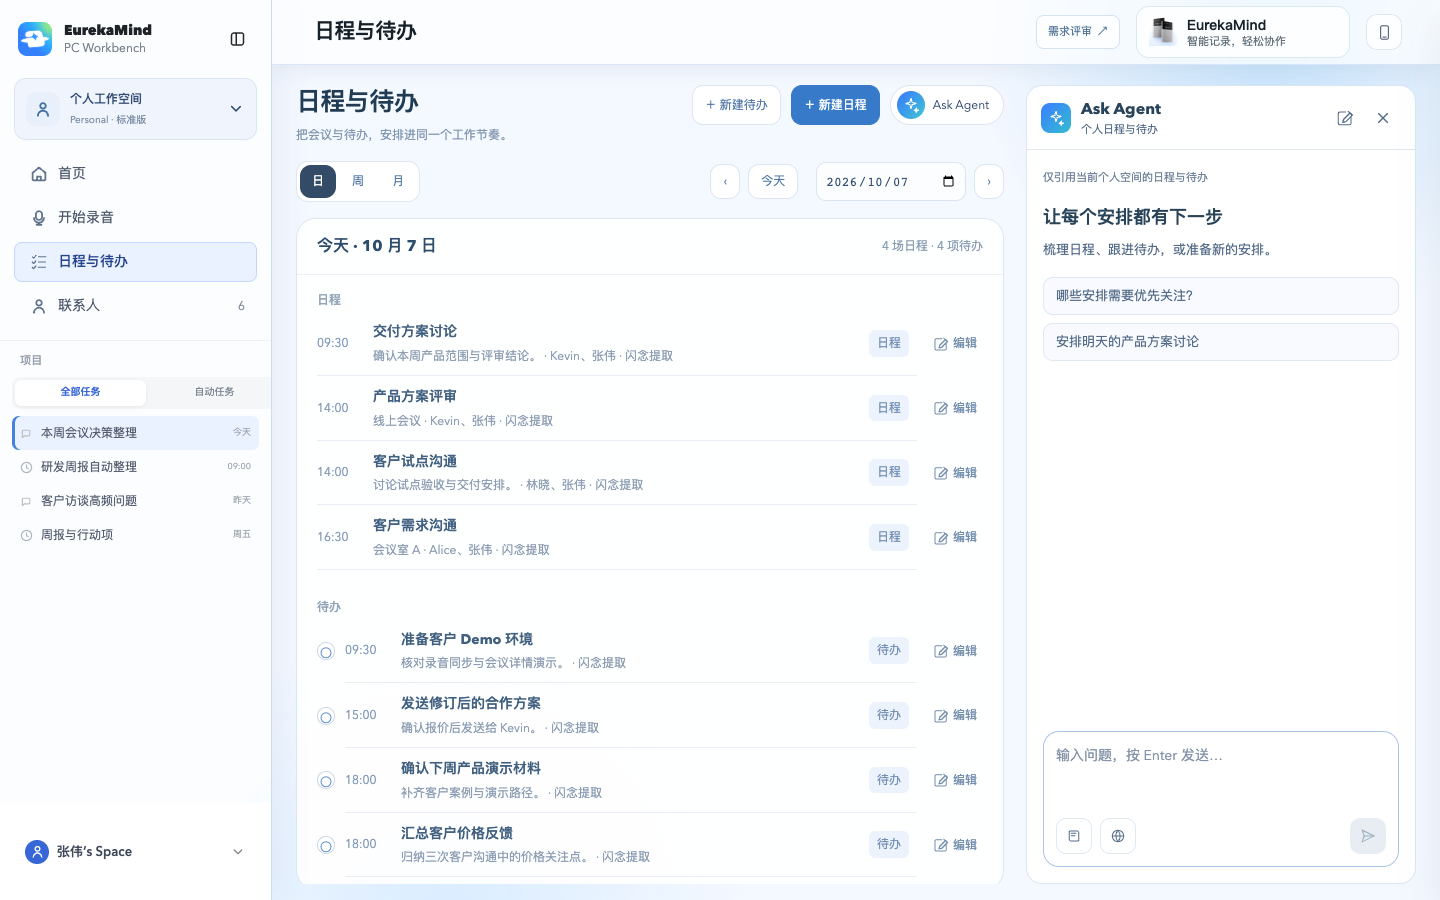
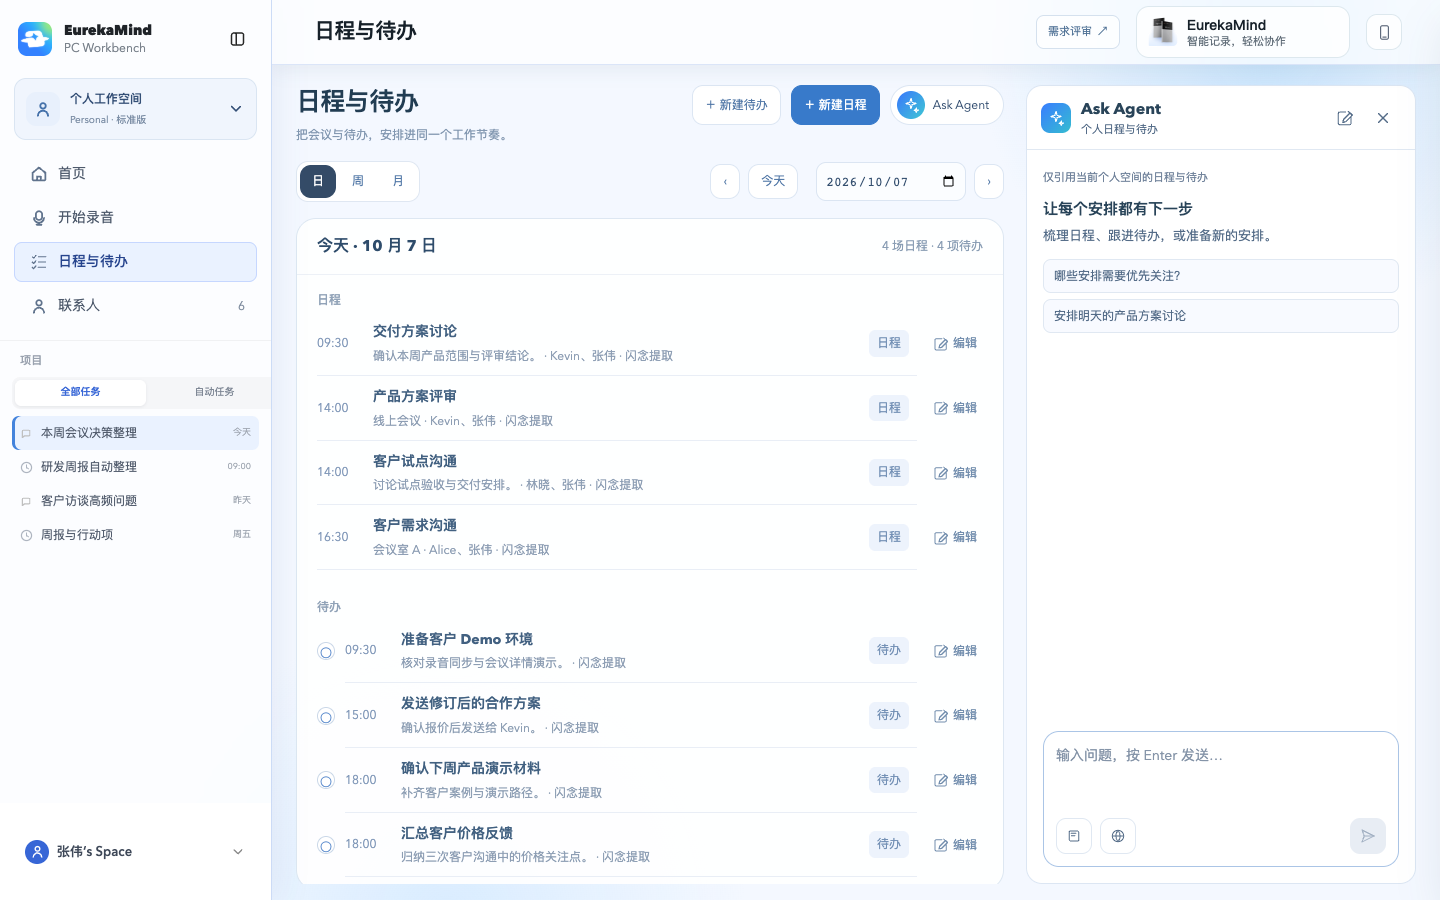
Unify compact Agent content typography

Changed region(s): [[0.7188, 0.2178, 0.875, 0.4044]]

diff --git a/src/prototype/one-to-one-reference/assets/agent-panel.css b/src/prototype/one-to-one-reference/assets/agent-panel.css
@@ -12,12 +12,12 @@
 :is(#xiaozhi-rail,#contacts-xiaozhi-rail,#knowledge-xiaozhi-panel) .xiaozhi-body{padding:16px;gap:16px;min-height:0;overflow:hidden;}
 :is(#pa-agent,.ws-agent) :is(.pa-agent-body,.ws-agent-scroll){padding:16px;min-height:0;overflow-y:auto;}
 :is(#xiaozhi-rail,#pa-agent,#contacts-xiaozhi-rail,.ws-agent,#knowledge-xiaozhi-panel) :is(.xiaozhi-intro,.pa-agent-welcome){padding:0;}
-:is(#xiaozhi-rail,#pa-agent,#contacts-xiaozhi-rail,.ws-agent,#knowledge-xiaozhi-panel) :is(.xiaozhi-intro,.pa-agent-welcome,.ws-agent-scroll) h3{margin:16px 0 8px;font-size:18px;line-height:27px;color:var(--agent-ink);}
-:is(#xiaozhi-rail,#pa-agent,#contacts-xiaozhi-rail,.ws-agent,#knowledge-xiaozhi-panel) :is(.xiaozhi-intro,.pa-agent-welcome) >p{margin:0;font-size:13px;line-height:22px;color:var(--agent-copy);}
-:is(#xiaozhi-rail,#pa-agent,#contacts-xiaozhi-rail,.ws-agent,#knowledge-xiaozhi-panel) :is(.xiaozhi-state,.pa-agent-context,.ws-eyebrow){font-size:11px;line-height:18px;color:var(--agent-meta);}
+:is(#xiaozhi-rail,#pa-agent,#contacts-xiaozhi-rail,.ws-agent,#knowledge-xiaozhi-panel) :is(.xiaozhi-intro,.pa-agent-welcome,.ws-agent-scroll,.agent-session-head) h3{margin:10px 0 6px;font-size:15px;line-height:22px;font-weight:600;color:var(--agent-ink);}
+:is(#xiaozhi-rail,#pa-agent,#contacts-xiaozhi-rail,.ws-agent,#knowledge-xiaozhi-panel) :is(.xiaozhi-intro,.pa-agent-welcome,.ws-agent-scroll,.ws-agent-insight-context) >p{margin:0;font-size:13px;line-height:21px;color:var(--agent-copy);}
+:is(#xiaozhi-rail,#pa-agent,#contacts-xiaozhi-rail,.ws-agent,#knowledge-xiaozhi-panel) :is(.xiaozhi-state,.pa-agent-context,.ws-eyebrow){font-size:11px;line-height:17px;color:var(--agent-meta);}
 :is(#xiaozhi-rail,#contacts-xiaozhi-rail,#knowledge-xiaozhi-panel) .xiaozhi-state i{display:none;}
-:is(#xiaozhi-rail,#pa-agent,#contacts-xiaozhi-rail,.ws-agent,#knowledge-xiaozhi-panel) :is(.xiaozhi-suggestions,.pa-agent-prompts,.ws-agent-prompts){display:grid;grid-template-columns:1fr;gap:8px;margin:16px 0;}
-:is(#xiaozhi-rail,#pa-agent,#contacts-xiaozhi-rail,.ws-agent,#knowledge-xiaozhi-panel) :is(.xiaozhi-suggestions,.pa-agent-prompts,.ws-agent-prompts)>button{display:flex;align-items:center;min-height:36px;padding:8px 12px;border:1px solid var(--agent-line);border-radius:10px;background:#f8faff;color:var(--agent-copy);font-size:13px;line-height:20px;text-align:left;font-weight:400;white-space:normal;}
+:is(#xiaozhi-rail,#pa-agent,#contacts-xiaozhi-rail,.ws-agent,#knowledge-xiaozhi-panel) :is(.xiaozhi-suggestions,.pa-agent-prompts,.ws-agent-prompts){display:grid;grid-template-columns:1fr;gap:6px;margin:12px 0;}
+:is(#xiaozhi-rail,#pa-agent,#contacts-xiaozhi-rail,.ws-agent,#knowledge-xiaozhi-panel) :is(.xiaozhi-suggestions,.pa-agent-prompts,.ws-agent-prompts)>button{display:flex;align-items:center;min-height:34px;padding:7px 10px;border:1px solid var(--agent-line);border-radius:8px;background:#f8faff;color:var(--agent-copy);font-size:12px;line-height:18px;text-align:left;font-weight:400;white-space:normal;}
 #pa-agent .pa-agent-prompts svg{display:none;}
 :is(#xiaozhi-rail,#pa-agent,#contacts-xiaozhi-rail,.ws-agent,#knowledge-xiaozhi-panel) :is(.xiaozhi-composer,.ws-composer,#pa-agent-prompt){box-sizing:border-box;min-height:0;padding:12px;border:1px solid var(--agent-line);border-radius:16px;background:#fff;box-shadow:0 2px 8px #243b6205;flex-shrink:0;}
 :is(#xiaozhi-rail,#contacts-xiaozhi-rail,#knowledge-xiaozhi-panel) .xiaozhi-composer{margin:0;}
@@ -38,9 +38,9 @@
 #contacts-xiaozhi-rail .xiaozhi-context{margin:0;display:flex;gap:6px;flex-wrap:wrap;min-width:0;flex:1;}
 #contacts-xiaozhi-rail .xiaozhi-context>span:first-child{display:none;}
 #contacts-xiaozhi-rail .xiaozhi-context .selected{display:flex;align-items:center;gap:6px;padding:7px 10px;background:#edf4ff;border-radius:10px;font-size:12px;line-height:22px;overflow-wrap:anywhere;}
-#contacts-xiaozhi-rail .contacts-xiaozhi-answer{min-height:0;padding:0;margin:16px 0 8px;background:transparent;color:var(--agent-ink);font-size:14px;line-height:1.8;}
-:is(#xiaozhi-rail,#pa-agent,#contacts-xiaozhi-rail,.ws-agent) :is(.agent-history-message p,.pa-message,.pa-agent-answer,.pa-agent-answer p,.ws-chat-user,.ws-chat-answer){font-size:14px;line-height:1.8;overflow-wrap:anywhere;}
-:is(#xiaozhi-rail,#pa-agent,#contacts-xiaozhi-rail,.ws-agent) :is(.agent-history-message.user,.pa-message,.ws-chat-user){padding:12px;border-radius:12px;background:#eff5ff;color:var(--agent-copy);}
+#contacts-xiaozhi-rail .contacts-xiaozhi-answer{min-height:0;padding:0;margin:12px 0 6px;background:transparent;color:var(--agent-ink);font-size:13px;line-height:22px;}
+:is(#xiaozhi-rail,#pa-agent,#contacts-xiaozhi-rail,.ws-agent) :is(.agent-history-message p,.pa-message,.pa-agent-answer,.pa-agent-answer p,.ws-chat-user,.ws-chat-answer){font-size:13px;line-height:22px;overflow-wrap:anywhere;}
+:is(#xiaozhi-rail,#pa-agent,#contacts-xiaozhi-rail,.ws-agent) :is(.agent-history-message.user,.pa-message,.ws-chat-user){padding:10px 12px;border-radius:10px;background:#eff5ff;color:var(--agent-copy);}
 #agent-history-messages{scroll-padding:12px 0;}
 #xiaozhi-rail.history-mode{height:calc(100dvh - var(--agent-top,77px) - 16px)!important;}
 @media(max-height:700px){
@@ -69,3 +69,21 @@
 /* Keep the composer focused on input and actions; scope stays available to its accessibility description. */
 :is(#xiaozhi-rail,#pa-agent,#contacts-xiaozhi-rail,.ws-agent,#knowledge-xiaozhi-panel) :is(.agent-context-hint,#pa-agent-scope,#ws-composer-hint,.agent-composer-caption,.pa-composer-caption,.ws-composer-caption,.xiaozhi-composer-foot>span){display:none;}
 :is(#xiaozhi-rail,#pa-agent,#contacts-xiaozhi-rail,.ws-agent,#knowledge-xiaozhi-panel) :is(.agent-composer-toolbar,.pa-composer-tools,.ws-composer-tools,.xiaozhi-composer-foot){margin-bottom:0;}
+
+/* Content hierarchy: section titles 15/22, prose 13/22, actions 12/18, metadata 11/17. */
+:is(#xiaozhi-rail,#pa-agent,#contacts-xiaozhi-rail,.ws-agent,#knowledge-xiaozhi-panel) :is(.xiaozhi-intro,.pa-agent-body,.ws-agent-scroll,.contacts-xiaozhi-messages){font-size:13px;line-height:22px;color:var(--agent-copy);}
+:is(#xiaozhi-rail,#pa-agent,#contacts-xiaozhi-rail,.ws-agent,#knowledge-xiaozhi-panel) :is(.agent-session-head>span,.agent-session-head small,.agent-session-head>p,.agent-history-message>span,.contacts-xiaozhi-note,.ws-agent-history-context>p,.ws-agent-insight-context>span,.ws-agent-usage,.md-agent-context>small,.widget-agent-result>span,.widget-agent-result small){font-size:11px;line-height:17px;font-weight:400;color:var(--agent-meta);}
+:is(#xiaozhi-rail,#pa-agent,#contacts-xiaozhi-rail,.ws-agent,#knowledge-xiaozhi-panel) :is(.agent-history-message,.pa-message,.pa-agent-answer,.ws-chat-user,.ws-chat-answer){margin:0 0 12px;}
+:is(#xiaozhi-rail,#pa-agent,#contacts-xiaozhi-rail,.ws-agent,#knowledge-xiaozhi-panel) :is(.pa-agent-answer p,.agent-history-message p){margin:4px 0 0;font-size:13px;line-height:22px;}
+:is(#xiaozhi-rail,#pa-agent,#contacts-xiaozhi-rail,.ws-agent,#knowledge-xiaozhi-panel) :is(.pa-agent-answer,.widget-agent-result) :is(ul,ol){margin:8px 0;padding-left:20px;}
+:is(#xiaozhi-rail,#pa-agent,#contacts-xiaozhi-rail,.ws-agent,#knowledge-xiaozhi-panel) :is(.pa-agent-answer,.widget-agent-result) li{margin:4px 0;font-size:13px;line-height:22px;}
+:is(#xiaozhi-rail,#pa-agent,#contacts-xiaozhi-rail,.ws-agent,#knowledge-xiaozhi-panel) :is(.pa-agent-answer h4,.widget-agent-result h4,.md-agent-context>strong){display:block;margin:8px 0 6px;font-size:14px;line-height:21px;font-weight:600;color:var(--agent-ink);}
+#xiaozhi-rail .md-agent-context{padding:0 0 12px;margin:0;}
+#xiaozhi-rail .md-agent-context p{margin:0;font-size:13px;line-height:21px;color:var(--agent-copy);}
+#xiaozhi-rail .widget-agent-result{margin-top:12px;padding:12px;border-radius:10px;}
+#xiaozhi-rail #agent-history-continue{font-size:12px;line-height:18px;padding:8px 10px;}
+.ws-agent :is(.ws-agent-history-context,.ws-agent-insight-context){margin:12px 0;}
+.ws-agent .ws-agent-usage{margin:-6px 0 12px;}
+.recording-assistant-empty h3{font-size:15px;line-height:22px;font-weight:600;}
+.recording-assistant-empty p{font-size:13px;line-height:21px;}
+.recording-chat-row span{font-size:13px;line-height:22px;}

diff --git a/src/prototype/one-to-one-reference/team-only-app.html b/src/prototype/one-to-one-reference/team-only-app.html
@@ -5346,6 +5346,6 @@
 <script src="assets/personal-action-popup.js?v=1"></script>
 <link rel="stylesheet" href="assets/agent-resize.css?v=1">
 <script src="assets/agent-resize.js?v=2"></script>
-<link rel="stylesheet" href="assets/agent-panel.css?v=2">
+<link rel="stylesheet" href="assets/agent-panel.css?v=3">
 </body>
 </html>
